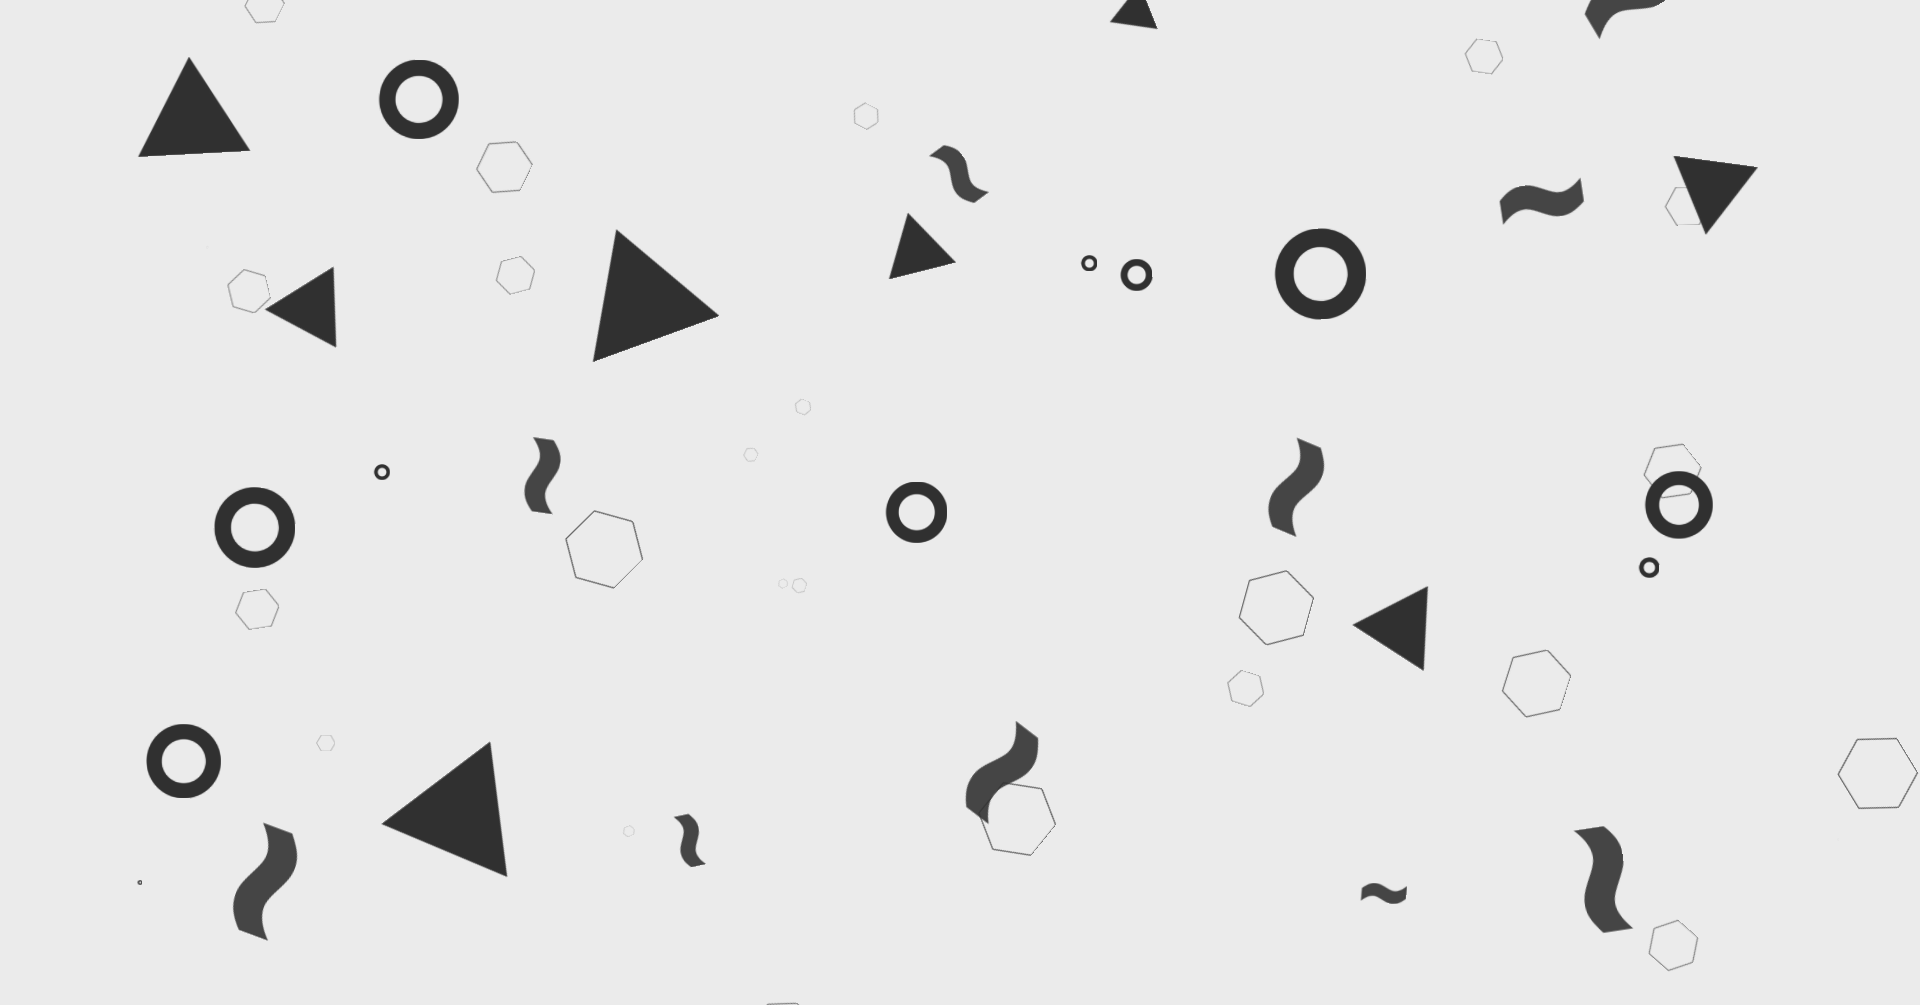
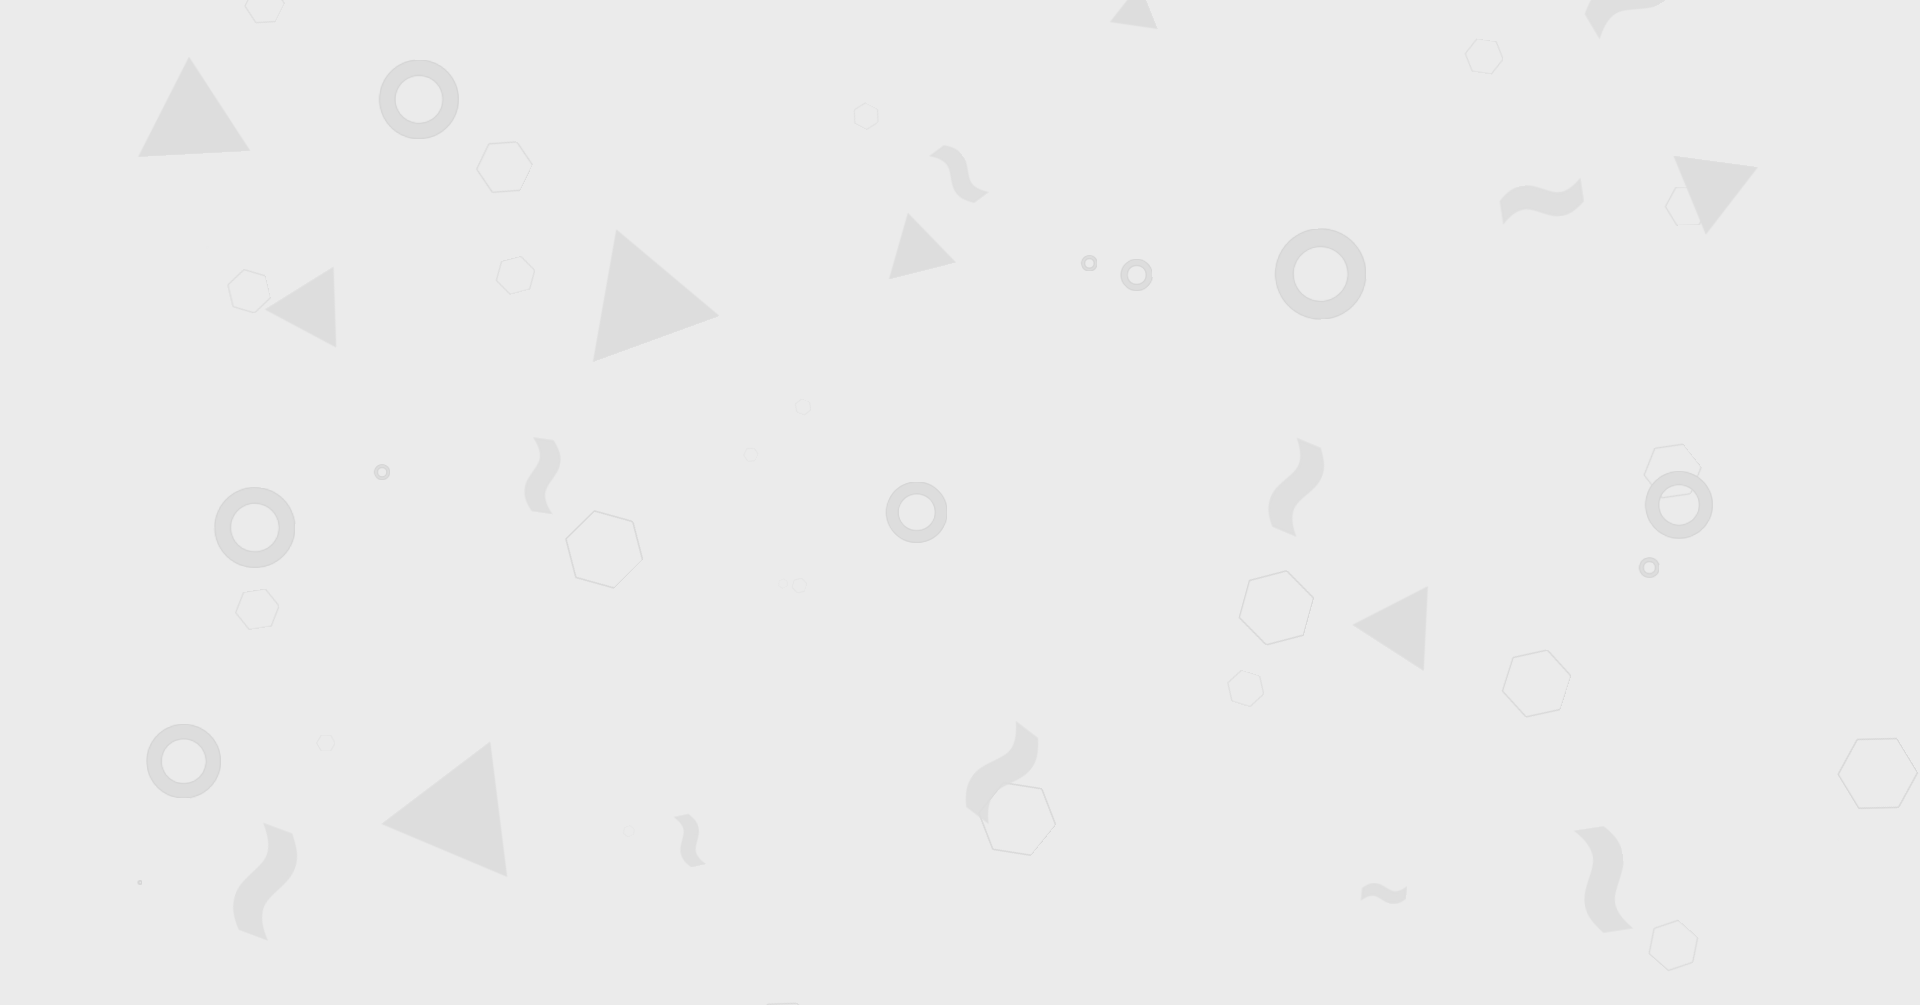
background changes

diff --git a/index.html b/index.html
@@ -53,15 +53,15 @@
 				<!-- One -->
 					<section id="one" class="wrapper style2 spotlights">
 						<section>
-							<a href="#" class="image"><img src="images/pic01.jpg" alt="" data-position="center center" /></a>
+							<img src="images/pic01.jpg" alt="" data-position="center center" />
 							<div class="content">
 								<div class="inner">
 									<h2>Introduction</h2>
-									<p class="about">Be part of a weekend of ideas, innovation and impact by participating in 180 Degrees Consulting’s inaugural Social Impact Hackathon. </p>
+									<p class="about">Be part of a weekend of <strong>ideas, innovation and impact</strong> by participating in 180 Degrees Consulting’s inaugural Social Impact Hackathon.</p>
 
-<p class="about">This Social Impact Hackathon will address inclusion of LGBTIQ+ students and professionals. Despite marriage equality and advances in LGBTIQ+ rights across Australia, research shows that only 32% of LGBTIQ+ people are out to everyone with whom they work, and this is even lower for young LGBT+ people. </p>
+<p class="about">This Social Impact Hackathon will address <strong>inclusion of LGBTIQ+ students and professionals</strong>. Despite marriage equality and advances in LGBTIQ+ rights across Australia, research shows that only 32% of LGBTIQ+ people are out to everyone with whom they work, and this is even lower for young LGBTIQ+ people. </p>
 
-<p class="about">The event will bring together talented and innovative students, industry mentors and representatives from Out for Australia, our not-for-profit client, to co-design a strategy for better strengthening the sense of community among LGBTIQ+ professionals and students.</p>
+<p class="about">The event will bring together talented and innovative students, industry mentors and representatives from Out for Australia, our not-for-profit client, to co-design a strategy for better strengthening the sense of community among LGBTIQ+ professionals and students. We invite anyone with bright ideas, appetite for problem-solving and a genuine desire to make a social difference to <a href="#three">register</a>!</p>
 
 									<!--<ul class="actions">
 										<li><a href="generic.html" class="button">Learn more</a></li>

diff --git a/assets/css/main.css b/assets/css/main.css
@@ -3874,7 +3874,7 @@ input, select, textarea {
 
 	#intro {
 		background-attachment: fixed;
-		background-image: url("https://180dc-hackathon.github.io/test1/assets/css/images/background.png");
+		background-image: url("assets/backgrounds/intro.png");
 		background-position: top right;
 		background-repeat: no-repeat;
 		background-size: cover;
